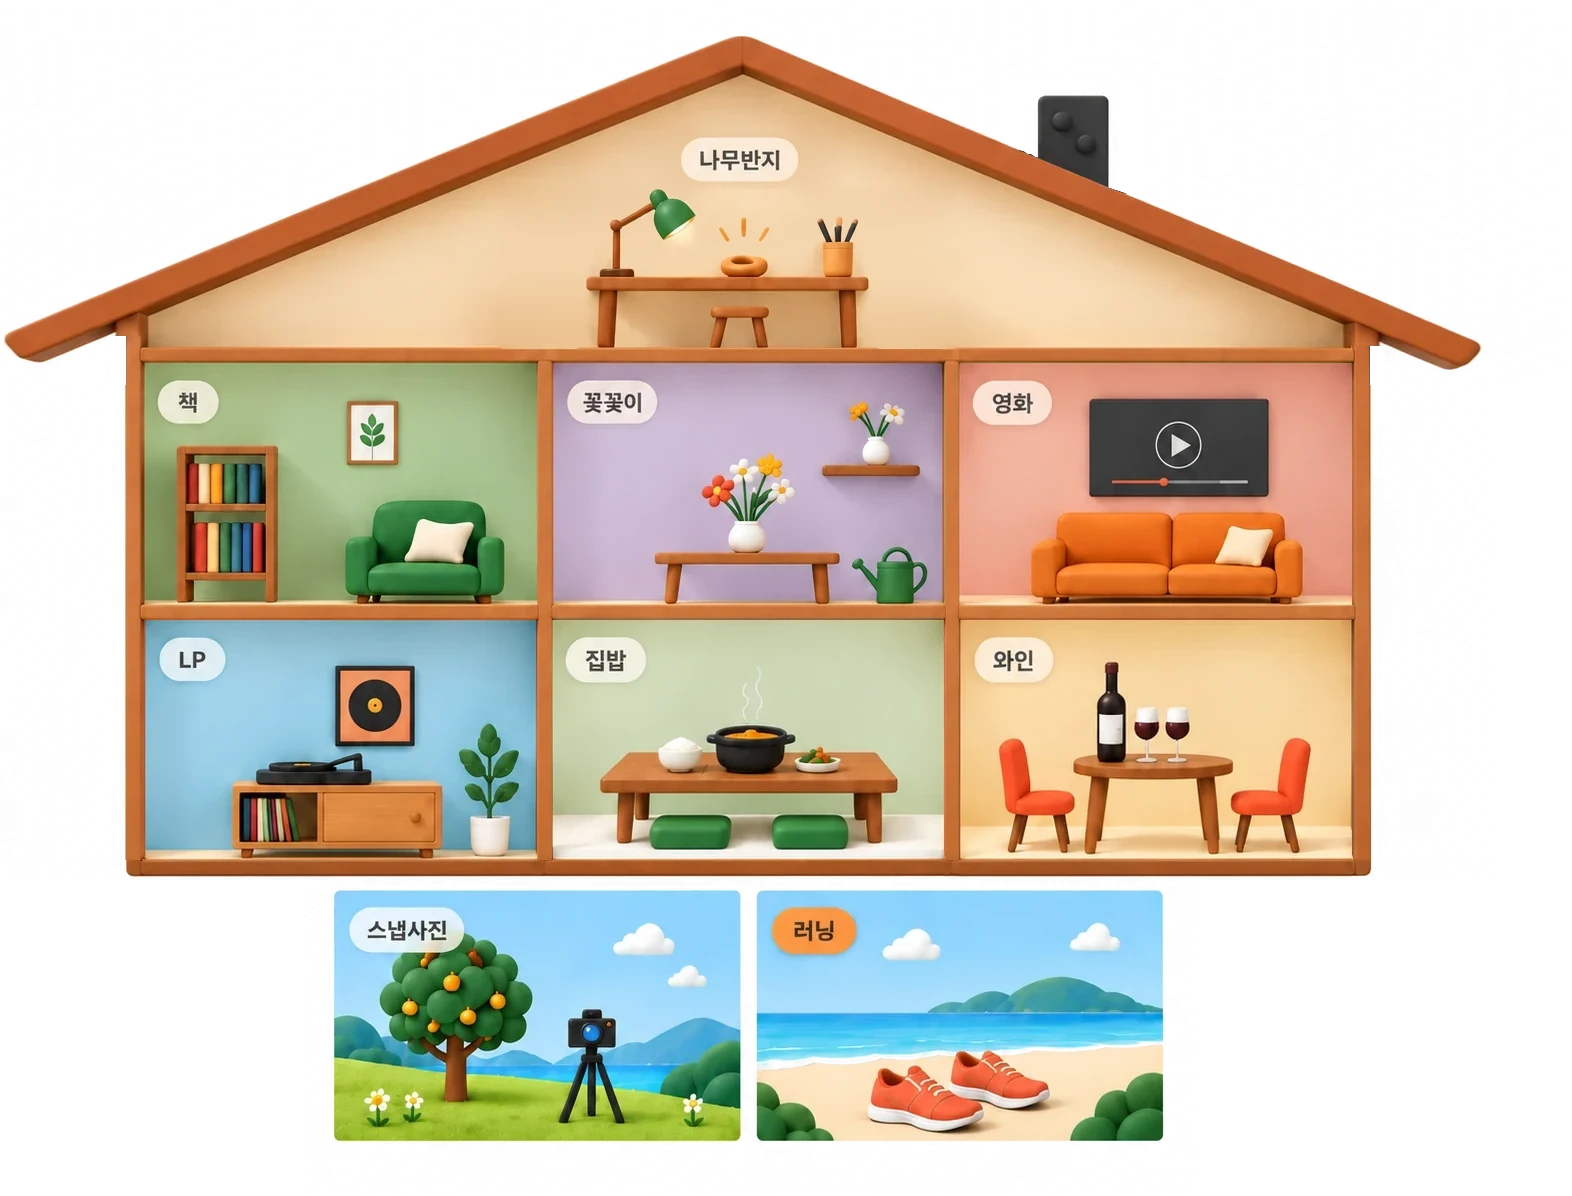
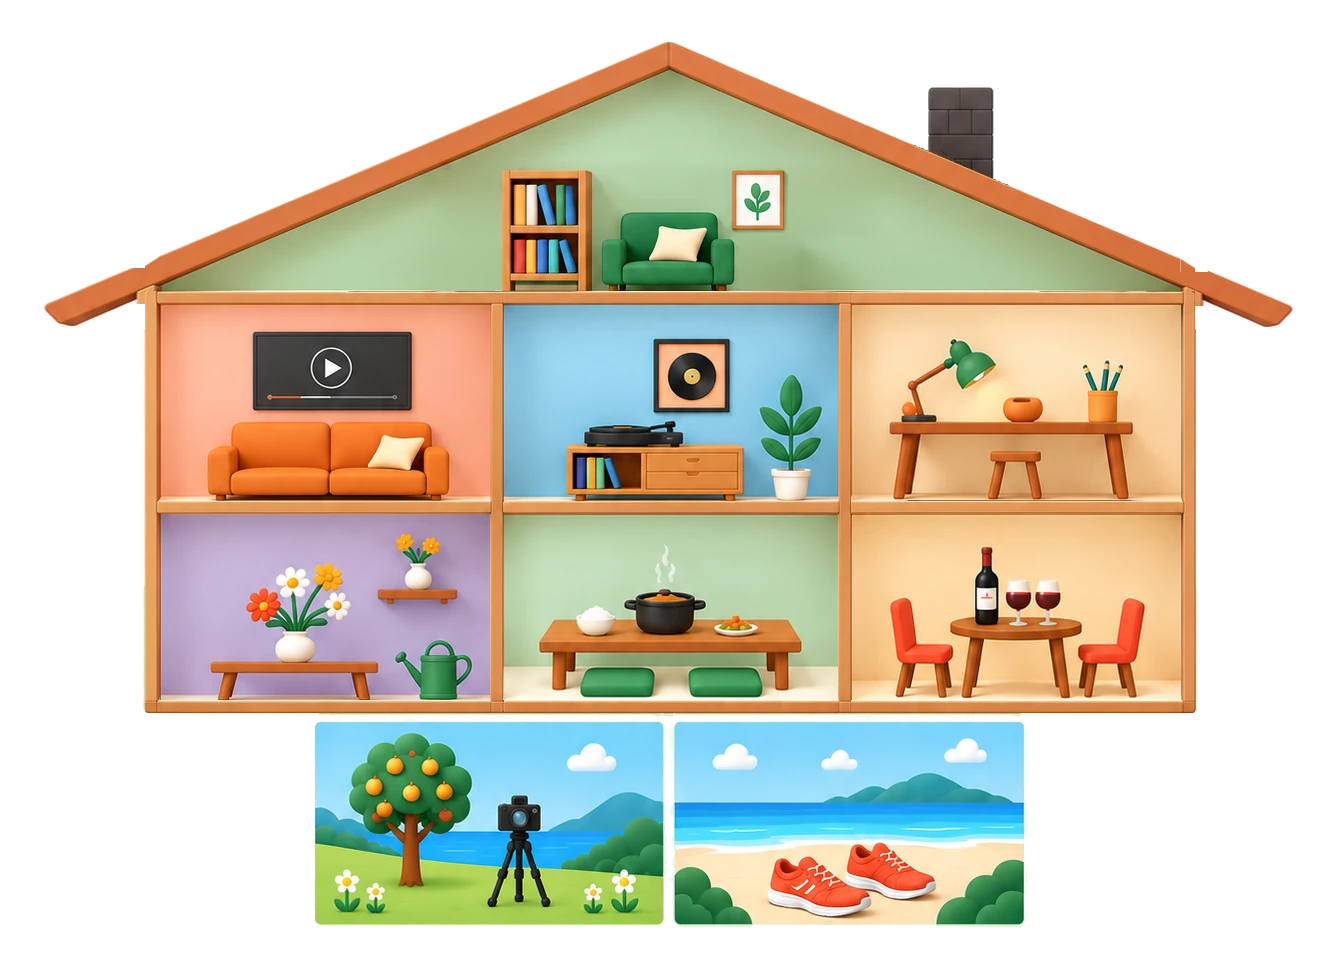
집 그림 새로 — 다락 책 · 영화 · LP / 반지공방 · 꽃꽂이 / 집밥 · 와인 (넓은 화면은 한 층 세 칸)

diff --git a/src/pages/HousePage.tsx b/src/pages/HousePage.tsx
@@ -18,39 +18,39 @@ const VIEW_KEY = 'jejulog:house-view';
 
 /**
  * 그림(바깥 배경은 투명) 속 방 자리 · 이름표 자리 — 그림 픽셀 기준
- * room: 방 네모 [x1, y1, x2, y2] / tag: 그림 속 이름표를 덮는 자리 [x, y, 최소 너비] (center — 가운데 기준)
- * 휴대폰은 한 층에 두 칸(1088 × 1446), 넓은 화면은 같은 그림을 잘라 이어 붙인 한 층 세 칸(1572 × 1196)
- *  — 나무반지(다락) · 스냅사진 · 러닝(마당)은 그대로, 가운데 여섯 칸만 책 · 꽃꽂이 · 영화 / LP · 집밥 · 와인
+ * room: 방 네모 [x1, y1, x2, y2] / tag: 이름표 자리 [x, y, 최소 너비] (center — 가운데 기준)
+ * 휴대폰은 한 층에 두 칸(914 × 1153), 넓은 화면은 같은 그림을 잘라 이어 붙인 한 층 세 칸(1337 × 963)
+ *  — 책(다락) · 스냅사진 · 러닝(마당)은 그대로, 가운데 여섯 칸만 영화 · LP · 반지공방 / 꽃꽂이 · 집밥 · 와인
  * ground: 잔디색 땅이 시작되는 그림 높이
  */
 type Spot = { id: ProgramId; room: [number, number, number, number]; tag: [number, number, number]; center?: boolean };
 const HOUSES: Record<'narrow' | 'wide', { url: string; w: number; h: number; ground: number; spots: Spot[] }> = {
   narrow: {
-    url: houseUrl, w: 1088, h: 1446, ground: 978,
+    url: houseUrl, w: 914, h: 1153, ground: 586,
     spots: [
-      { id: 'craft', room: [144, 75, 943, 348], tag: [543, 135, 122], center: true },
-      { id: 'book', room: [144, 362, 537, 605], tag: [155, 378, 66] },
-      { id: 'flower', room: [552, 362, 943, 605], tag: [565, 378, 95] },
-      { id: 'cinema', room: [144, 620, 537, 859], tag: [155, 636, 84] },
-      { id: 'lp', room: [552, 620, 943, 859], tag: [566, 636, 70] },
-      { id: 'homemeal', room: [144, 874, 537, 1109], tag: [155, 890, 85] },
-      { id: 'wine', room: [552, 874, 943, 1109], tag: [565, 890, 83] },
-      { id: 'camping', room: [130, 1140, 536, 1391], tag: [143, 1156, 120] },
-      { id: 'running', room: [553, 1140, 958, 1391], tag: [566, 1155, 89] },
+      { id: 'book', room: [119, 103, 797, 291], tag: [456, 104, 66], center: true },
+      { id: 'cinema', room: [119, 305, 449, 500], tag: [132, 321, 84] },
+      { id: 'lp', room: [462, 305, 797, 500], tag: [475, 321, 70] },
+      { id: 'craft', room: [119, 514, 449, 700], tag: [132, 530, 100] },
+      { id: 'flower', room: [462, 514, 797, 700], tag: [475, 530, 95] },
+      { id: 'homemeal', room: [119, 714, 449, 893], tag: [132, 730, 85] },
+      { id: 'wine', room: [462, 714, 797, 893], tag: [475, 730, 83] },
+      { id: 'camping', room: [103, 915, 450, 1119], tag: [116, 929, 120] },
+      { id: 'running', room: [463, 915, 811, 1119], tag: [476, 929, 89] },
     ],
   },
   wide: {
-    url: houseWideUrl, w: 1572, h: 1196, ground: 728,
+    url: houseWideUrl, w: 1337, h: 963, ground: 586,
     spots: [
-      { id: 'craft', room: [144, 75, 1352, 348], tag: [740, 135, 122], center: true },
-      { id: 'book', room: [144, 363, 537, 606], tag: [155, 378, 66] },
-      { id: 'flower', room: [552, 363, 944, 606], tag: [565, 378, 95] },
-      { id: 'cinema', room: [959, 363, 1352, 606], tag: [970, 379, 84] },
-      { id: 'lp', room: [144, 620, 537, 860], tag: [158, 636, 70] },
-      { id: 'homemeal', room: [552, 620, 944, 860], tag: [563, 635, 85] },
-      { id: 'wine', room: [959, 620, 1352, 860], tag: [972, 635, 83] },
-      { id: 'camping', room: [334, 890, 740, 1141], tag: [347, 906, 120] },
-      { id: 'running', room: [757, 890, 1162, 1141], tag: [770, 905, 89] },
+      { id: 'book', room: [160, 103, 1181, 291], tag: [668, 104, 66], center: true },
+      { id: 'cinema', room: [160, 305, 490, 500], tag: [173, 321, 84] },
+      { id: 'lp', room: [503, 305, 838, 500], tag: [516, 321, 70] },
+      { id: 'craft', room: [851, 305, 1181, 500], tag: [864, 321, 100] },
+      { id: 'flower', room: [160, 514, 490, 700], tag: [173, 530, 95] },
+      { id: 'homemeal', room: [503, 514, 838, 700], tag: [516, 530, 85] },
+      { id: 'wine', room: [851, 514, 1181, 700], tag: [864, 530, 83] },
+      { id: 'camping', room: [315, 722, 662, 923], tag: [328, 736, 120] },
+      { id: 'running', room: [675, 722, 1023, 923], tag: [688, 736, 89] },
     ],
   },
 };

diff --git a/src/data/experiences.ts b/src/data/experiences.ts
@@ -42,15 +42,15 @@ export const EXPERIENCES: Experience[] = [
 export const EXPERIENCE_BY_ID = Object.fromEntries(EXPERIENCES.map((e) => [e.id, e])) as Record<ProgramId, Experience>;
 
 export const ROOMS: { id: RoomId; floor: string; name: string; items: ProgramId[] }[] = [
-  { id: 'attic', floor: 'ATTIC', name: '다락 작업실', items: ['craft'] },
-  { id: 'living', floor: '2F', name: '거실', items: ['book', 'flower', 'cinema'] },
-  { id: 'kitchen', floor: '1F', name: '부엌', items: ['lp', 'homemeal', 'wine'] },
+  { id: 'attic', floor: 'ATTIC', name: '다락 서재', items: ['book'] },
+  { id: 'living', floor: '2F', name: '거실', items: ['cinema', 'lp', 'craft'] },
+  { id: 'kitchen', floor: '1F', name: '부엌', items: ['flower', 'homemeal', 'wine'] },
   { id: 'yard', floor: 'YARD', name: '마당', items: ['camping', 'running'] },
 ];
 
-/** 집 단면 — 다락 나무반지 · 3F 책 · 꽃꽂이 · 2F 영화 · LP · 1F 집밥 · 와인 · 마당 스냅 · 러닝 (좁은 화면 — 넓은 화면은 ROOMS: 다락 1 · 2F 3칸 · 1F 3칸 · 마당 2) */
+/** 집 단면 — 다락 책 · 3F 영화 · LP · 2F 반지공방 · 꽃꽂이 · 1F 집밥 · 와인 · 마당 스냅 · 러닝 (좁은 화면 — 넓은 화면은 ROOMS: 다락 1 · 2F 3칸 · 1F 3칸 · 마당 2) */
 export const COMPACT_FLOORS: { id: RoomId; floor: string; name: string; items: ProgramId[] }[] = [
-  { id: 'study', floor: '3F', name: '서재', items: ['book', 'flower'] },
-  { id: 'living', floor: '2F', name: '거실', items: ['cinema', 'lp'] },
+  { id: 'study', floor: '3F', name: '서재', items: ['cinema', 'lp'] },
+  { id: 'living', floor: '2F', name: '거실', items: ['craft', 'flower'] },
   { id: 'kitchen', floor: '1F', name: '부엌', items: ['homemeal', 'wine'] },
 ];
